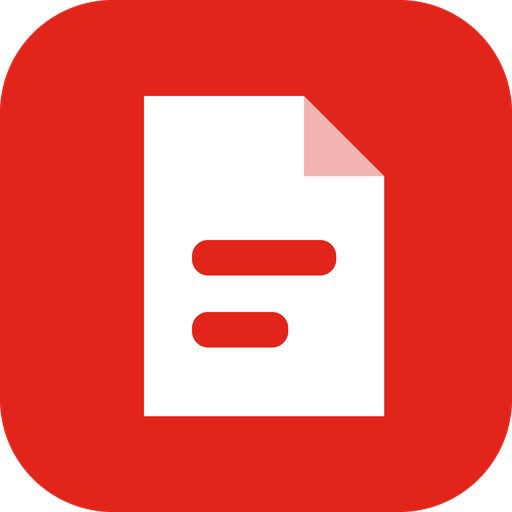
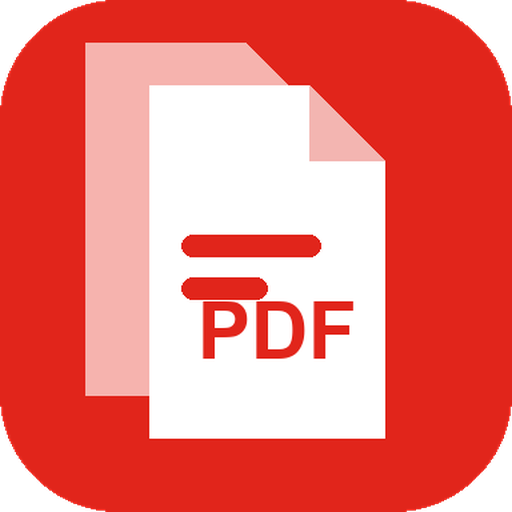
이름을 PDF 공작소로 변경, 새 아이콘, 앱 설치·오프라인 ZIP, 사진→PDF 순서 지정

diff --git a/js/main.js b/js/main.js
@@ -169,7 +169,7 @@ $('#btnRedo').onclick = () => D.redo();
 on('history', () => { $('#btnUndo').disabled = !S.hist.length; $('#btnRedo').disabled = !S.fut.length; });
 on('doc-loaded', () => { $('#btnUndo').disabled = !S.hist.length; $('#btnRedo').disabled = !S.fut.length; });
 on('doc-loaded', () => {
-  $('#docName').textContent = S.name; document.title = S.name + ' - PDF 스튜디오';
+  $('#docName').textContent = S.name; document.title = S.name + ' - PDF 공작소';
   V.setTool('select');
   if (!phone()) { ed.classList.toggle('tools-open', innerWidth >= 1180 && !ed.dataset.seen); ed.dataset.seen = '1'; }
 });
@@ -209,6 +209,34 @@ addEventListener('drop', async e => {
 });
 
 addEventListener('beforeunload', e => { if (S.pdf && S.dirty) { e.preventDefault(); e.returnValue = ''; } });
+
+// ---------- 앱 설치 · 다운로드 ----------
+const ZIP_URL = 'https://github.com/GCODE77/PDF/releases/latest/download/PDF-gongjakso-offline.zip';
+const standalone = matchMedia('(display-mode: standalone)').matches || navigator.standalone;
+let deferredInstall = null;
+$('#instIc').innerHTML = icon('save'); $('#heroInstIc').innerHTML = icon('save');
+const showInstall = () => { const on = !standalone; $('#heroInstall').hidden = !on; $('#btnInstall').hidden = !on; };
+showInstall();
+addEventListener('beforeinstallprompt', e => { e.preventDefault(); deferredInstall = e; });
+addEventListener('appinstalled', () => { deferredInstall = null; toast('설치되었습니다. 홈 화면·시작 메뉴에서 실행하세요', 'ok'); $('#heroInstall').hidden = true; $('#btnInstall').hidden = true; });
+async function installApp() {
+  if (deferredInstall) { deferredInstall.prompt(); await deferredInstall.userChoice; deferredInstall = null; return; }
+  const li = (b, t) => h('li', {}, h('b', {}, b + ' '), t);
+  modal({
+    title: '앱으로 설치 · 다운로드',
+    body: [
+      h('p', { class: 'muted' }, '설치하면 홈 화면·바탕화면에서 앱처럼 바로 열리고, 인터넷이 없어도 쓸 수 있습니다.'),
+      h('ul', { class: 'steps' },
+        li('아이폰/아이패드(사파리):', '아래 공유 버튼 → 「홈 화면에 추가」'),
+        li('안드로이드(크롬):', '오른쪽 위 ⋮ 메뉴 → 「앱 설치」 또는 「홈 화면에 추가」'),
+        li('PC(크롬·엣지):', '주소창 오른쪽의 설치 아이콘(⊕) → 「설치」')),
+      h('hr'),
+      h('p', {}, h('b', {}, 'PC용 오프라인 파일 받기'), h('br'), h('span', { class: 'muted small' }, '압축을 풀고 「실행.bat」을 더블클릭하면 인터넷 없이도 열립니다. (설치 프로그램·파이썬 필요 없음)')),
+      h('a', { class: 'btn primary', href: ZIP_URL, target: '_blank', rel: 'noopener' }, 'ZIP 다운로드')],
+    actions: [{ label: '닫기' }],
+  });
+}
+$('#heroInstall').onclick = installApp; $('#btnInstall').onclick = installApp;
 
 // ---------- 시작 ----------
 await V.initViewer();

diff --git a/index.html b/index.html
@@ -6,10 +6,10 @@
 <meta name="theme-color" content="#ffffff">
 <meta name="apple-mobile-web-app-capable" content="yes">
 <meta name="mobile-web-app-capable" content="yes">
-<title>PDF 스튜디오</title>
+<title>PDF 공작소</title>
 <link rel="manifest" href="manifest.webmanifest">
 <link rel="icon" href="icons/icon.svg" type="image/svg+xml">
-<link rel="apple-touch-icon" href="icons/icon-192.png">
+<link rel="apple-touch-icon" href="icons/apple-touch-icon.png">
 <link rel="stylesheet" href="css/style.css">
 </head>
 <body>
@@ -71,8 +71,8 @@
   <!-- ===== 상단 바 ===== -->
   <header id="top">
     <button class="brand" id="brand" aria-label="홈으로">
-      <span class="logo"><svg viewBox="0 0 32 32" width="28" height="28" aria-hidden="true"><rect width="32" height="32" rx="7" fill="#e1251b"/><path d="M9 7h10l5 5v13H9z" fill="#fff"/><path d="M19 7v5h5" fill="#f3b5b1"/><rect x="12" y="16" width="9" height="2" rx="1" fill="#e1251b"/><rect x="12" y="20" width="6" height="2" rx="1" fill="#e1251b"/></svg></span>
-      <span class="bname">PDF 스튜디오</span>
+      <span class="logo"><img src="icons/icon.svg" width="30" height="30" alt=""></span>
+      <span class="bname">PDF 공작소</span>
     </button>
     <nav class="tabs" aria-label="화면">
       <button id="tabHome" class="tab on">홈</button>
@@ -80,6 +80,7 @@
       <button id="tabDoc" class="tab" hidden><span id="docName">문서</span></button>
     </nav>
     <span class="grow"></span>
+    <button id="btnInstall" class="btn ghost hide-phone" hidden><span id="instIc"></span><span>앱 설치</span></button>
     <button id="btnOpen" class="btn" hidden><span class="ico"></span><span>다른 파일 열기</span></button>
     <button id="btnShare" class="btn ghost" hidden aria-label="공유"><span id="shareIc"></span><span class="lbl">공유</span></button>
     <button id="btnSave" class="btn primary cta" hidden><span id="saveIc"></span><span>저장</span></button>
@@ -95,13 +96,14 @@
           <button id="heroOpen" class="btn primary xl"><span id="heroOpenIc"></span><span>PDF 열기</span></button>
           <button id="heroImg" class="btn xl"><span id="heroImgIc"></span><span>사진으로 PDF 만들기</span></button>
         </div>
+        <button id="heroInstall" class="btn ghost" hidden><span id="heroInstIc"></span><span>앱으로 설치 · 다운로드</span></button>
         <p class="drop-hint">PDF를 이 화면에 끌어다 놓아도 열립니다</p>
       </div>
     </section>
     <section class="grid-wrap" id="gridWrap">
       <h2>도구</h2>
       <div id="cards" class="cards"></div>
-      <p class="foot">PDF 스튜디오 · 모든 처리는 브라우저 안에서 이루어집니다 (오프라인 사용 가능)</p>
+      <p class="foot">PDF 공작소 · 모든 처리는 브라우저 안에서 이루어집니다 (오프라인 사용 가능)</p>
     </section>
   </main>
 

diff --git a/css/style.css b/css/style.css
@@ -319,7 +319,7 @@ figcaption{font-size:12.5px;color:var(--muted);margin-top:4px}
   .thumb .tq{display:flex}
   .trow{padding:10px}.ti{width:42px;height:42px}.tt b{font-size:15px}.tt small{font-size:12.5px}
   #floatbar{bottom:10px;padding:4px 6px;max-width:calc(100% - 16px)}
-  .fb{min-width:36px;height:42px}.hide-phone{display:none}
+  .fb{min-width:36px;height:42px}.hide-phone{display:none!important}
   .zval{min-width:64px}
   #objbar{top:6px;padding:6px 10px;gap:8px;border-radius:12px}
   .m-wrap{align-items:end;padding:0}
@@ -346,3 +346,6 @@ figcaption{font-size:12.5px;color:var(--muted);margin-top:4px}
 .fitem .ord{width:46px;height:36px;text-align:center;font-weight:800;font-size:15px;border:1.5px solid #c4c9d0;border-radius:8px;background:#fff;flex:none;padding:0}
 .fitem .ord:focus{border-color:var(--blue);outline:none;box-shadow:0 0 0 3px #1473e633}
 .imgs .fitem img{width:56px;height:56px}
+
+.steps{margin:0;padding-left:20px;display:flex;flex-direction:column;gap:8px;line-height:1.55;font-size:14px}
+#heroInstall{margin-top:10px}

diff --git a/sw.js b/sw.js
@@ -1,5 +1,5 @@
 // 오프라인 사용을 위한 서비스 워커: 앱 파일은 캐시 우선, 용량이 큰 OCR·글꼴은 처음 쓸 때 캐시
-const V = 'pdfstudio-v1';
+const V = 'pdfgongjakso-v2';
 const CORE = ['./', 'index.html', 'css/style.css', 'js/main.js', 'js/state.js', 'js/doc.js', 'js/viewer.js', 'js/side.js', 'js/tools.js', 'js/pdfcore.js',
   'vendor/pdf-lib.min.js', 'vendor/fontkit.umd.min.js', 'vendor/jszip.min.js', 'vendor/pdfjs/pdf.min.mjs', 'vendor/pdfjs/pdf.worker.min.mjs',
   'vendor/tess/tesseract.min.js', 'manifest.webmanifest', 'icons/icon.svg', 'icons/icon-192.png'];

diff --git a/README.md b/README.md
@@ -1,4 +1,4 @@
-# PDF 스튜디오
+# PDF 공작소
 
 PDF를 열고 · 고치고 · 서명하고 · 변환하고 · 줄이는 앱. 폰과 PC에서 같은 화면으로 쓰는 웹앱(PWA)입니다.
 **모든 처리는 기기 안(브라우저)에서만 이루어집니다.** 파일이 서버로 올라가지 않고, 한 번 열어 두면 오프라인에서도 동작합니다.
